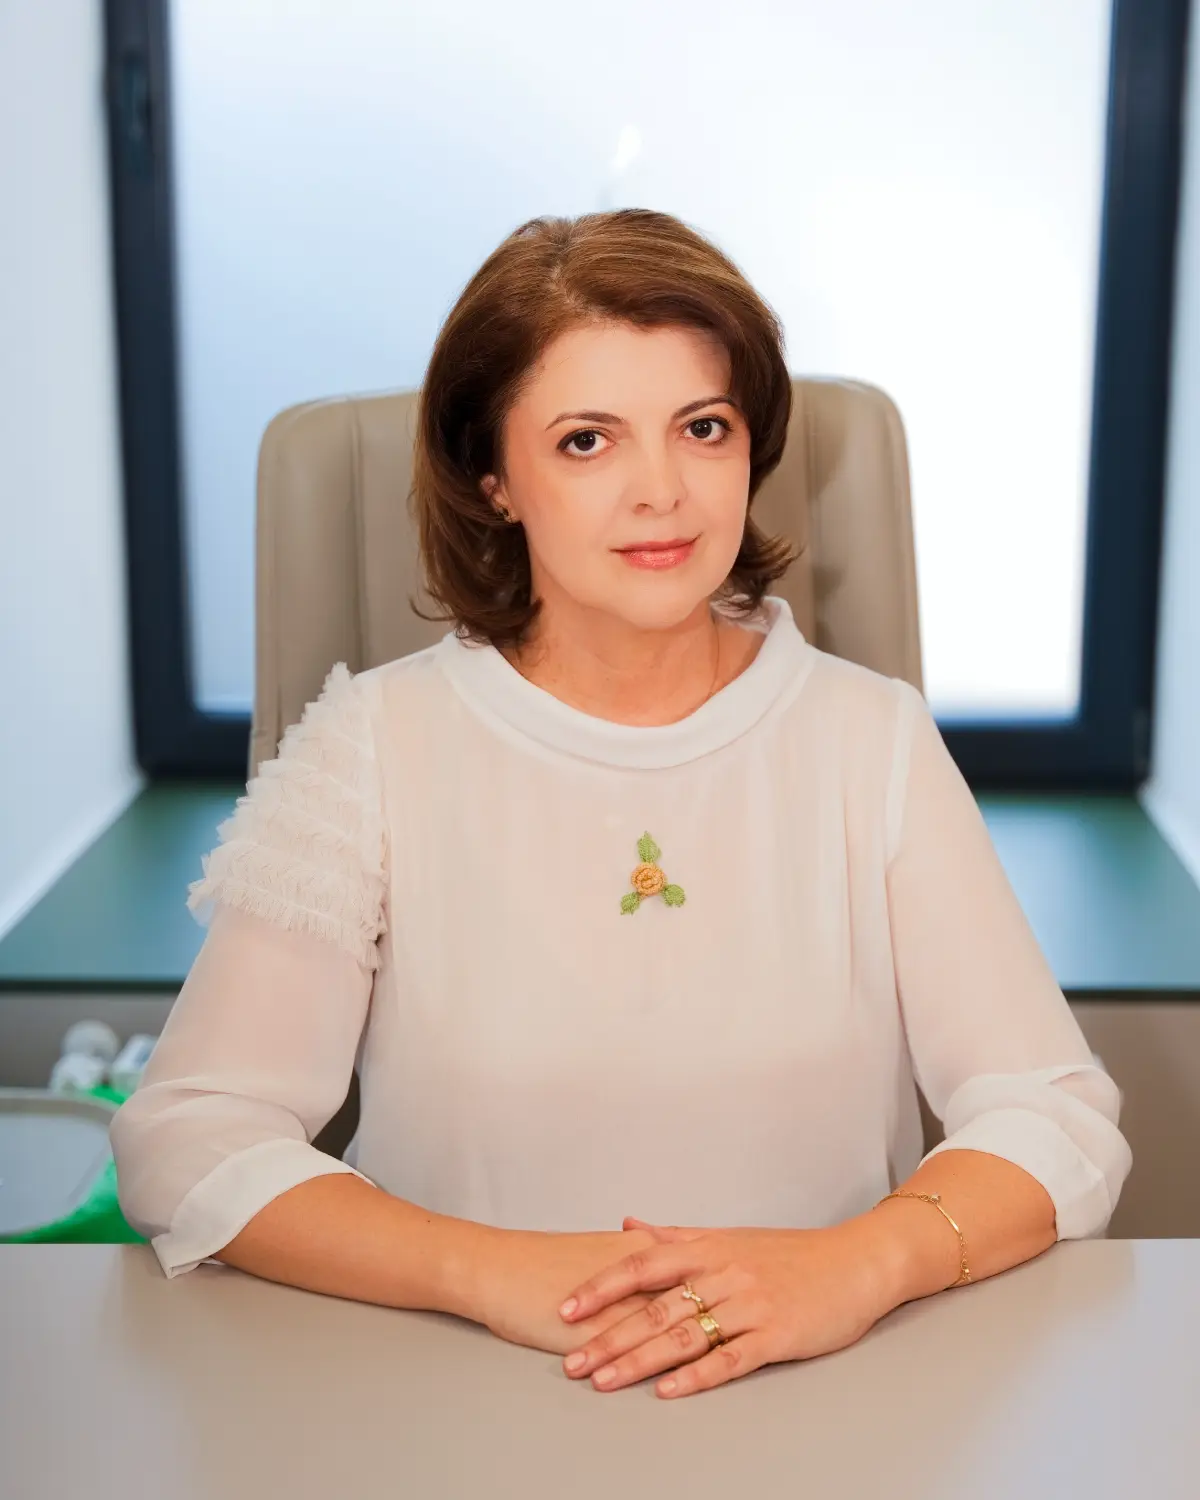
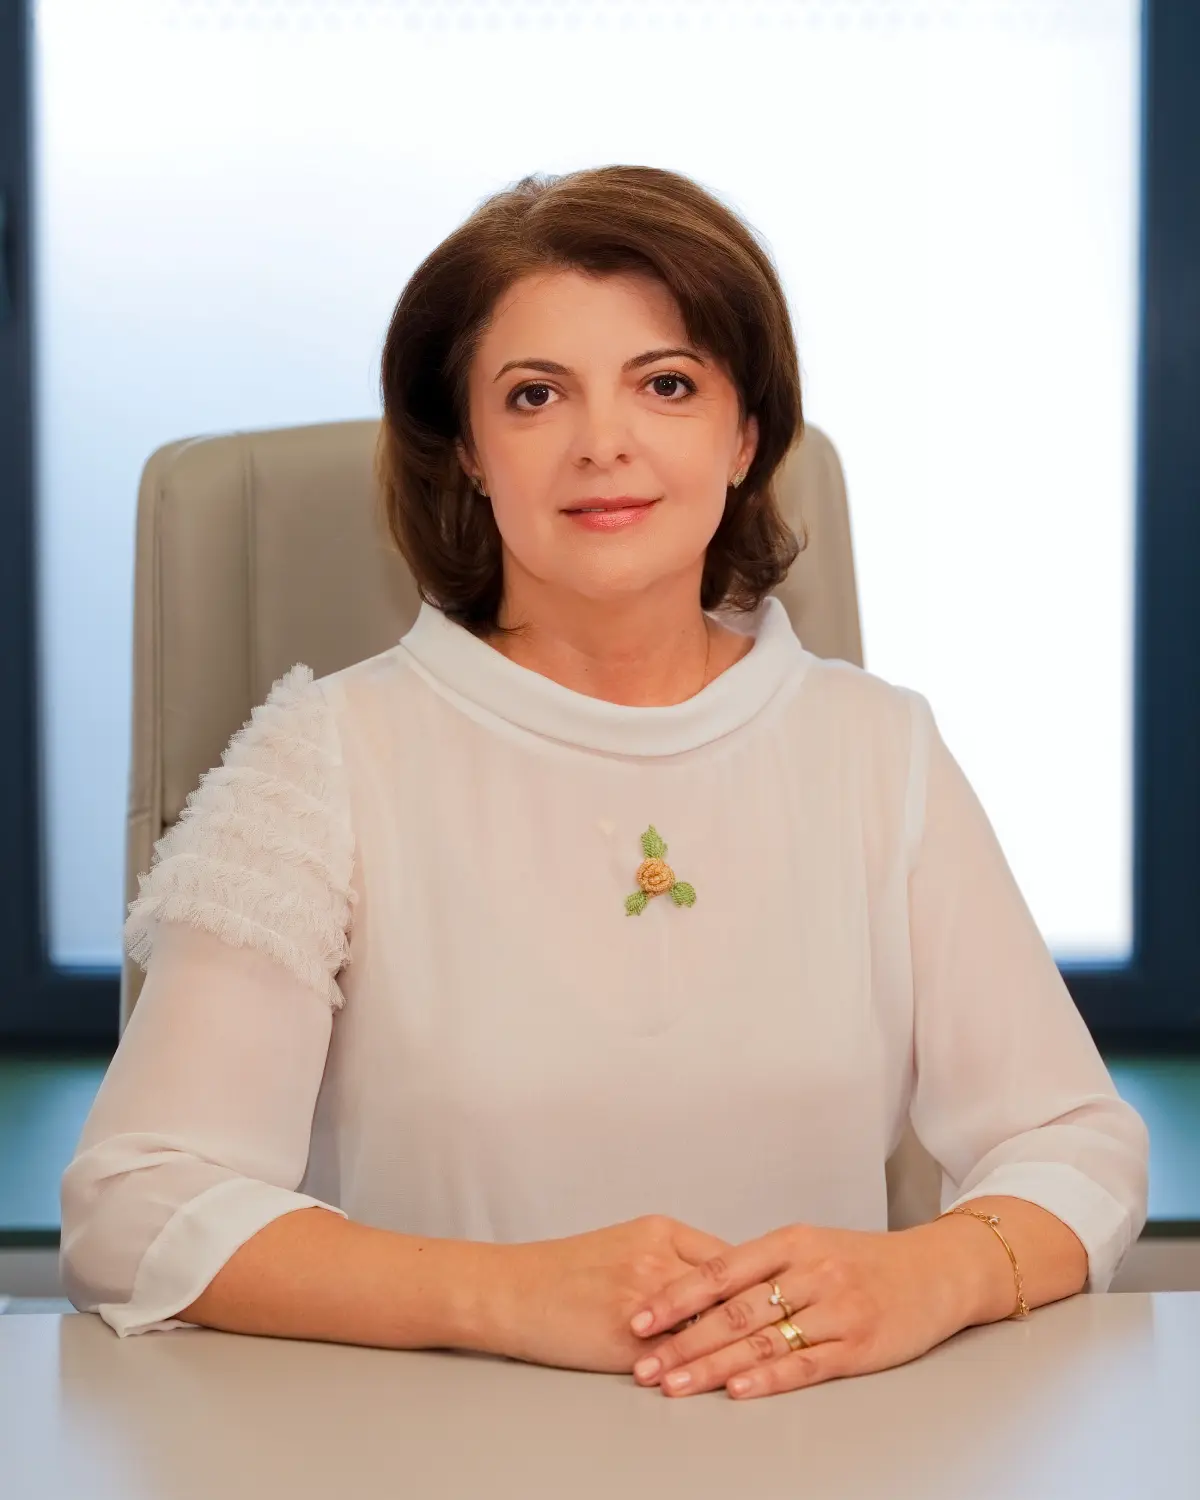
Filter the team by specialty, label the support groups
The team grid gets filter chips (Toți + every specialty that has doctors).
The order still comes from the server — grouped by specialty, shuffled inside
each group — and filtering only hides cards, it never reshuffles what stays.

The support section now labels its two rows, Conducere above the director and
Asistenți medicali above the grid; both labels are derived from the roles, so
a new role added from the panel gets its own heading.

Dr. Irina Dobrin and Mihaela Ungureanu carry their psychotherapy training in
the title line (0007), and both have their new portraits.

diff --git a/src/app/(site)/echipa/page.tsx b/src/app/(site)/echipa/page.tsx
@@ -4,7 +4,7 @@ import { connection } from "next/server";
 import { PageHeader } from "@/components/layout/page-header";
 import { Section, SectionHeading } from "@/components/layout/section";
 import { Reveal } from "@/components/reveal";
-import { DoctorFlipCard } from "@/components/doctor-flip-card";
+import { TeamGrid } from "@/components/team-grid";
 import { StaffCard } from "@/components/staff-card";
 import { CtaBand } from "@/components/cta-band";
 import {
@@ -14,7 +14,7 @@ import {
   getStaff,
 } from "@/lib/data";
 import { getContent } from "@/lib/content/get";
-import { isLeadershipRole } from "@/lib/staff";
+import { isLeadershipRole, staffGroupLabel } from "@/lib/staff";
 import { shuffle } from "@/lib/utils";
 
 export const metadata: Metadata = buildMetadata({
@@ -22,12 +22,22 @@ export const metadata: Metadata = buildMetadata({
   ...requireMeta("/echipa"),
 });
 
+/** Titlul discret care desparte conducerea de restul echipei de suport. */
+function GroupHeading({ children }: { children: React.ReactNode }) {
+  return (
+    <Reveal>
+      <h3 className="text-sm font-medium uppercase tracking-[0.18em] text-sage-strong">
+        {children}
+      </h3>
+    </Reveal>
+  );
+}
+
 export default async function EchipaPage() {
   // Ordinea medicilor se amestecă la fiecare vizită, ca nimeni să nu fie
   // permanent primul sau ultimul — dar numai în interiorul specialității lui,
-  // așa că grila rămâne grupată pe specialități, fără titluri care să o taie.
-  // `connection()` scoate pagina din prerender, altfel `Math.random()` ar rula
-  // o singură dată, la build.
+  // așa că grila rămâne grupată pe specialități. `connection()` scoate pagina
+  // din prerender, altfel `Math.random()` ar rula o singură dată, la build.
   await connection();
 
   const [doctors, specialties, byDoctor, staff, content] = await Promise.all([
@@ -54,6 +64,12 @@ export default async function EchipaPage() {
     ...shuffle(cards.filter((c) => c.specialties.length === 0)),
   ];
 
+  // Butoanele de filtrare arată doar specialitățile care chiar au medici, ca
+  // să nu existe un filtru care duce la o grilă goală.
+  const filters = specialties
+    .filter((s) => cards.some((c) => c.specialties.some((x) => x.id === s.id)))
+    .map((s) => ({ id: s.id, name: s.name }));
+
   // Conducerea stă pe un rând al ei, centrat, deasupra restului echipei de
   // suport: directorul nu apare în aceeași grilă cu asistenții medicali.
   const leadership = staff.filter((m) => isLeadershipRole(m.role));
@@ -69,17 +85,7 @@ export default async function EchipaPage() {
       />
 
       <Section>
-        <div className="grid grid-cols-2 gap-3.5 sm:gap-5 lg:grid-cols-3 xl:grid-cols-4">
-          {grouped.map(({ doctor, specialties }, i) => (
-            <Reveal
-              key={doctor.id}
-              delay={(i % 4) * 0.05}
-              className="h-[23rem] sm:h-[27rem]"
-            >
-              <DoctorFlipCard doctor={doctor} specialties={specialties} />
-            </Reveal>
-          ))}
-        </div>
+        <TeamGrid cards={grouped} filters={filters} />
       </Section>
 
       {/* Echipa de suport */}
@@ -93,32 +99,42 @@ export default async function EchipaPage() {
           />
 
           {leadership.length > 0 && (
-            // Lățimile sunt cele ale unei coloane din grila de dedesubt, ca
-            // un card centrat să arate la fel de mare ca restul.
-            <div className="mt-12 flex flex-wrap justify-center gap-3.5 sm:gap-5">
-              {leadership.map((member, i) => (
-                <Reveal
-                  key={member.id}
-                  delay={i * 0.05}
-                  className="w-[calc(50%-0.4375rem)] sm:w-[calc(50%-0.625rem)] lg:w-[calc(33.333%-0.834rem)] xl:w-[calc(25%-0.9375rem)]"
-                >
-                  <StaffCard member={member} />
-                </Reveal>
-              ))}
+            <div className="mt-12 flex flex-col gap-6 sm:gap-8">
+              <GroupHeading>
+                {staffGroupLabel(leadership, "Conducere")}
+              </GroupHeading>
+              {/* Lățimile sunt cele ale unei coloane din grila de dedesubt, ca
+                  un card centrat să arate la fel de mare ca restul. */}
+              <div className="flex flex-wrap justify-center gap-3.5 sm:gap-5">
+                {leadership.map((member, i) => (
+                  <Reveal
+                    key={member.id}
+                    delay={i * 0.05}
+                    className="w-[calc(50%-0.4375rem)] sm:w-[calc(50%-0.625rem)] lg:w-[calc(33.333%-0.834rem)] xl:w-[calc(25%-0.9375rem)]"
+                  >
+                    <StaffCard member={member} />
+                  </Reveal>
+                ))}
+              </div>
             </div>
           )}
 
           {support.length > 0 && (
             <div
-              className={`grid grid-cols-2 gap-3.5 sm:gap-5 lg:grid-cols-3 xl:grid-cols-4 ${
-                leadership.length > 0 ? "mt-3.5 sm:mt-5" : "mt-12"
+              className={`flex flex-col gap-6 sm:gap-8 ${
+                leadership.length > 0 ? "mt-14 sm:mt-16" : "mt-12"
               }`}
             >
-              {support.map((member, i) => (
-                <Reveal key={member.id} delay={(i % 4) * 0.05}>
-                  <StaffCard member={member} />
-                </Reveal>
-              ))}
+              <GroupHeading>
+                {staffGroupLabel(support, "Echipa de suport")}
+              </GroupHeading>
+              <div className="grid grid-cols-2 gap-3.5 sm:gap-5 lg:grid-cols-3 xl:grid-cols-4">
+                {support.map((member, i) => (
+                  <Reveal key={member.id} delay={(i % 4) * 0.05}>
+                    <StaffCard member={member} />
+                  </Reveal>
+                ))}
+              </div>
             </div>
           )}
         </Section>

diff --git a/src/components/team-grid.tsx b/src/components/team-grid.tsx
@@ -1,0 +1,75 @@
+"use client";
+
+import { useState } from "react";
+import { DoctorFlipCard } from "@/components/doctor-flip-card";
+import { Reveal } from "@/components/reveal";
+import { cn } from "@/lib/utils";
+import type { Doctor, Specialty } from "@/lib/supabase/types";
+
+export type TeamCard = { doctor: Doctor; specialties: Specialty[] };
+
+/**
+ * Grila de medici de pe /echipa, cu filtre pe specialitate.
+ *
+ * Ordinea vine gata făcută de pe server (grupată pe specialități, amestecată
+ * în interiorul fiecărui grup) și nu se recalculează la filtrare: apăsarea
+ * unui buton doar ascunde restul, nu rearanjează ce rămâne.
+ *
+ * Filtrarea se face în browser, pe lista deja randată, nu printr-o navigare
+ * nouă: toți medicii sunt oricum în pagină, deci nu are rost un tur la server
+ * pentru a arăta un subset din ei.
+ */
+export function TeamGrid({
+  cards,
+  filters,
+}: {
+  cards: TeamCard[];
+  /** Specialitățile care au cel puțin un medic, în ordinea de pe site. */
+  filters: { id: string; name: string }[];
+}) {
+  const [active, setActive] = useState<string | null>(null);
+
+  const visible = active
+    ? cards.filter((c) => c.specialties.some((s) => s.id === active))
+    : cards;
+
+  const options = [{ id: null, name: "Toți" }, ...filters];
+
+  return (
+    <>
+      <Reveal className="flex flex-wrap gap-2 sm:gap-2.5">
+        {options.map((option) => {
+          const selected = option.id === active;
+          return (
+            <button
+              key={option.id ?? "toti"}
+              type="button"
+              onClick={() => setActive(option.id)}
+              aria-pressed={selected}
+              className={cn(
+                "rounded-full border px-4 py-2 text-sm font-medium transition-colors outline-none focus-visible:ring-2 focus-visible:ring-ring focus-visible:ring-offset-2",
+                selected
+                  ? "border-primary bg-primary text-primary-foreground"
+                  : "border-border bg-card text-muted-foreground hover:border-primary/30 hover:bg-primary/5 hover:text-primary",
+              )}
+            >
+              {option.name}
+            </button>
+          );
+        })}
+      </Reveal>
+
+      <div className="mt-10 grid grid-cols-2 gap-3.5 sm:gap-5 lg:grid-cols-3 xl:grid-cols-4">
+        {visible.map(({ doctor, specialties }, i) => (
+          <Reveal
+            key={doctor.id}
+            delay={(i % 4) * 0.05}
+            className="h-[23rem] sm:h-[27rem]"
+          >
+            <DoctorFlipCard doctor={doctor} specialties={specialties} />
+          </Reveal>
+        ))}
+      </div>
+    </>
+  );
+}

diff --git a/src/lib/staff.ts b/src/lib/staff.ts
@@ -57,3 +57,24 @@ export function isLeadershipRole(role: string): boolean {
   const words = role.toLowerCase().split(/[^a-zăâîșț]+/);
   return LEADERSHIP_WORDS.some((word) => words.includes(word));
 }
+
+/**
+ * Titlul de deasupra unui grup de colegi cu același rol: rolul e la singular
+ * pe card, titlul la plural. Un rol care nu e în hartă se afișează ca atare,
+ * deci unul adăugat din panou nu rămâne fără titlu.
+ */
+const ROLE_GROUP_LABELS: Record<string, string> = {
+  "Asistent medical": "Asistenți medicali",
+  "Asistent medical principal": "Asistenți medicali",
+  Recepționer: "Recepție",
+};
+
+/** Titlul grupului pentru o listă de colegi; generic dacă rolurile diferă. */
+export function staffGroupLabel(
+  members: readonly { role: string }[],
+  fallback: string,
+): string {
+  const roles = [...new Set(members.map((m) => m.role))];
+  if (roles.length !== 1) return fallback;
+  return ROLE_GROUP_LABELS[roles[0]] ?? roles[0];
+}

diff --git a/src/lib/data.ts b/src/lib/data.ts
@@ -90,11 +90,12 @@ const loadDoctors = unstable_cache(
       return fallbackDoctors;
     }
   },
-  // `v2`: descrierile medicilor s-au mutat din cod în baza de date. `v3`:
-  // titulaturile au trecut la denumirea specialității (0006). Cache-ul de date
-  // supraviețuiește deploy-urilor, iar sub cheia veche site-ul ar fi servit
-  // până la o oră titlurile de dinainte de migrație.
-  ["doctors-v3"],
+  // Cheia crește la fiecare scriere directă în baza de date: `v2` — descrierile
+  // s-au mutat din cod în baze; `v3` — titulaturile au trecut la denumirea
+  // specialității (0006); `v4` — s-au adăugat competențele de psihoterapie
+  // (0007). Cache-ul de date supraviețuiește deploy-urilor, iar sub cheia veche
+  // site-ul ar fi servit până la o oră conținutul de dinainte de migrație.
+  ["doctors-v4"],
   { tags: [DOCTORS_TAG], revalidate: REVALIDATE },
 );
 

diff --git a/src/lib/fallback-data.ts b/src/lib/fallback-data.ts
@@ -186,7 +186,7 @@ export const fallbackDoctors: FallbackDoctor[] = [
     id: "irina-dobrin",
     slug: "irina-dobrin",
     name: "Irina Dobrin",
-    title: "Medic Primar Psihiatrie",
+    title: "Medic Primar Psihiatrie, Terapie dialectic-comportamentală",
     credentials: "Dr., șef de lucrări",
     photo_url: null,
     short_bio:
@@ -440,7 +440,7 @@ export const fallbackDoctors: FallbackDoctor[] = [
     id: "mihaela-ungureanu",
     slug: "mihaela-ungureanu",
     name: "Mihaela Ungureanu",
-    title: "Psiholog clinician",
+    title: "Psiholog clinician, Psihoterapeut TCC",
     credentials: "Psiholog clinician",
     photo_url: null,
     short_bio:
